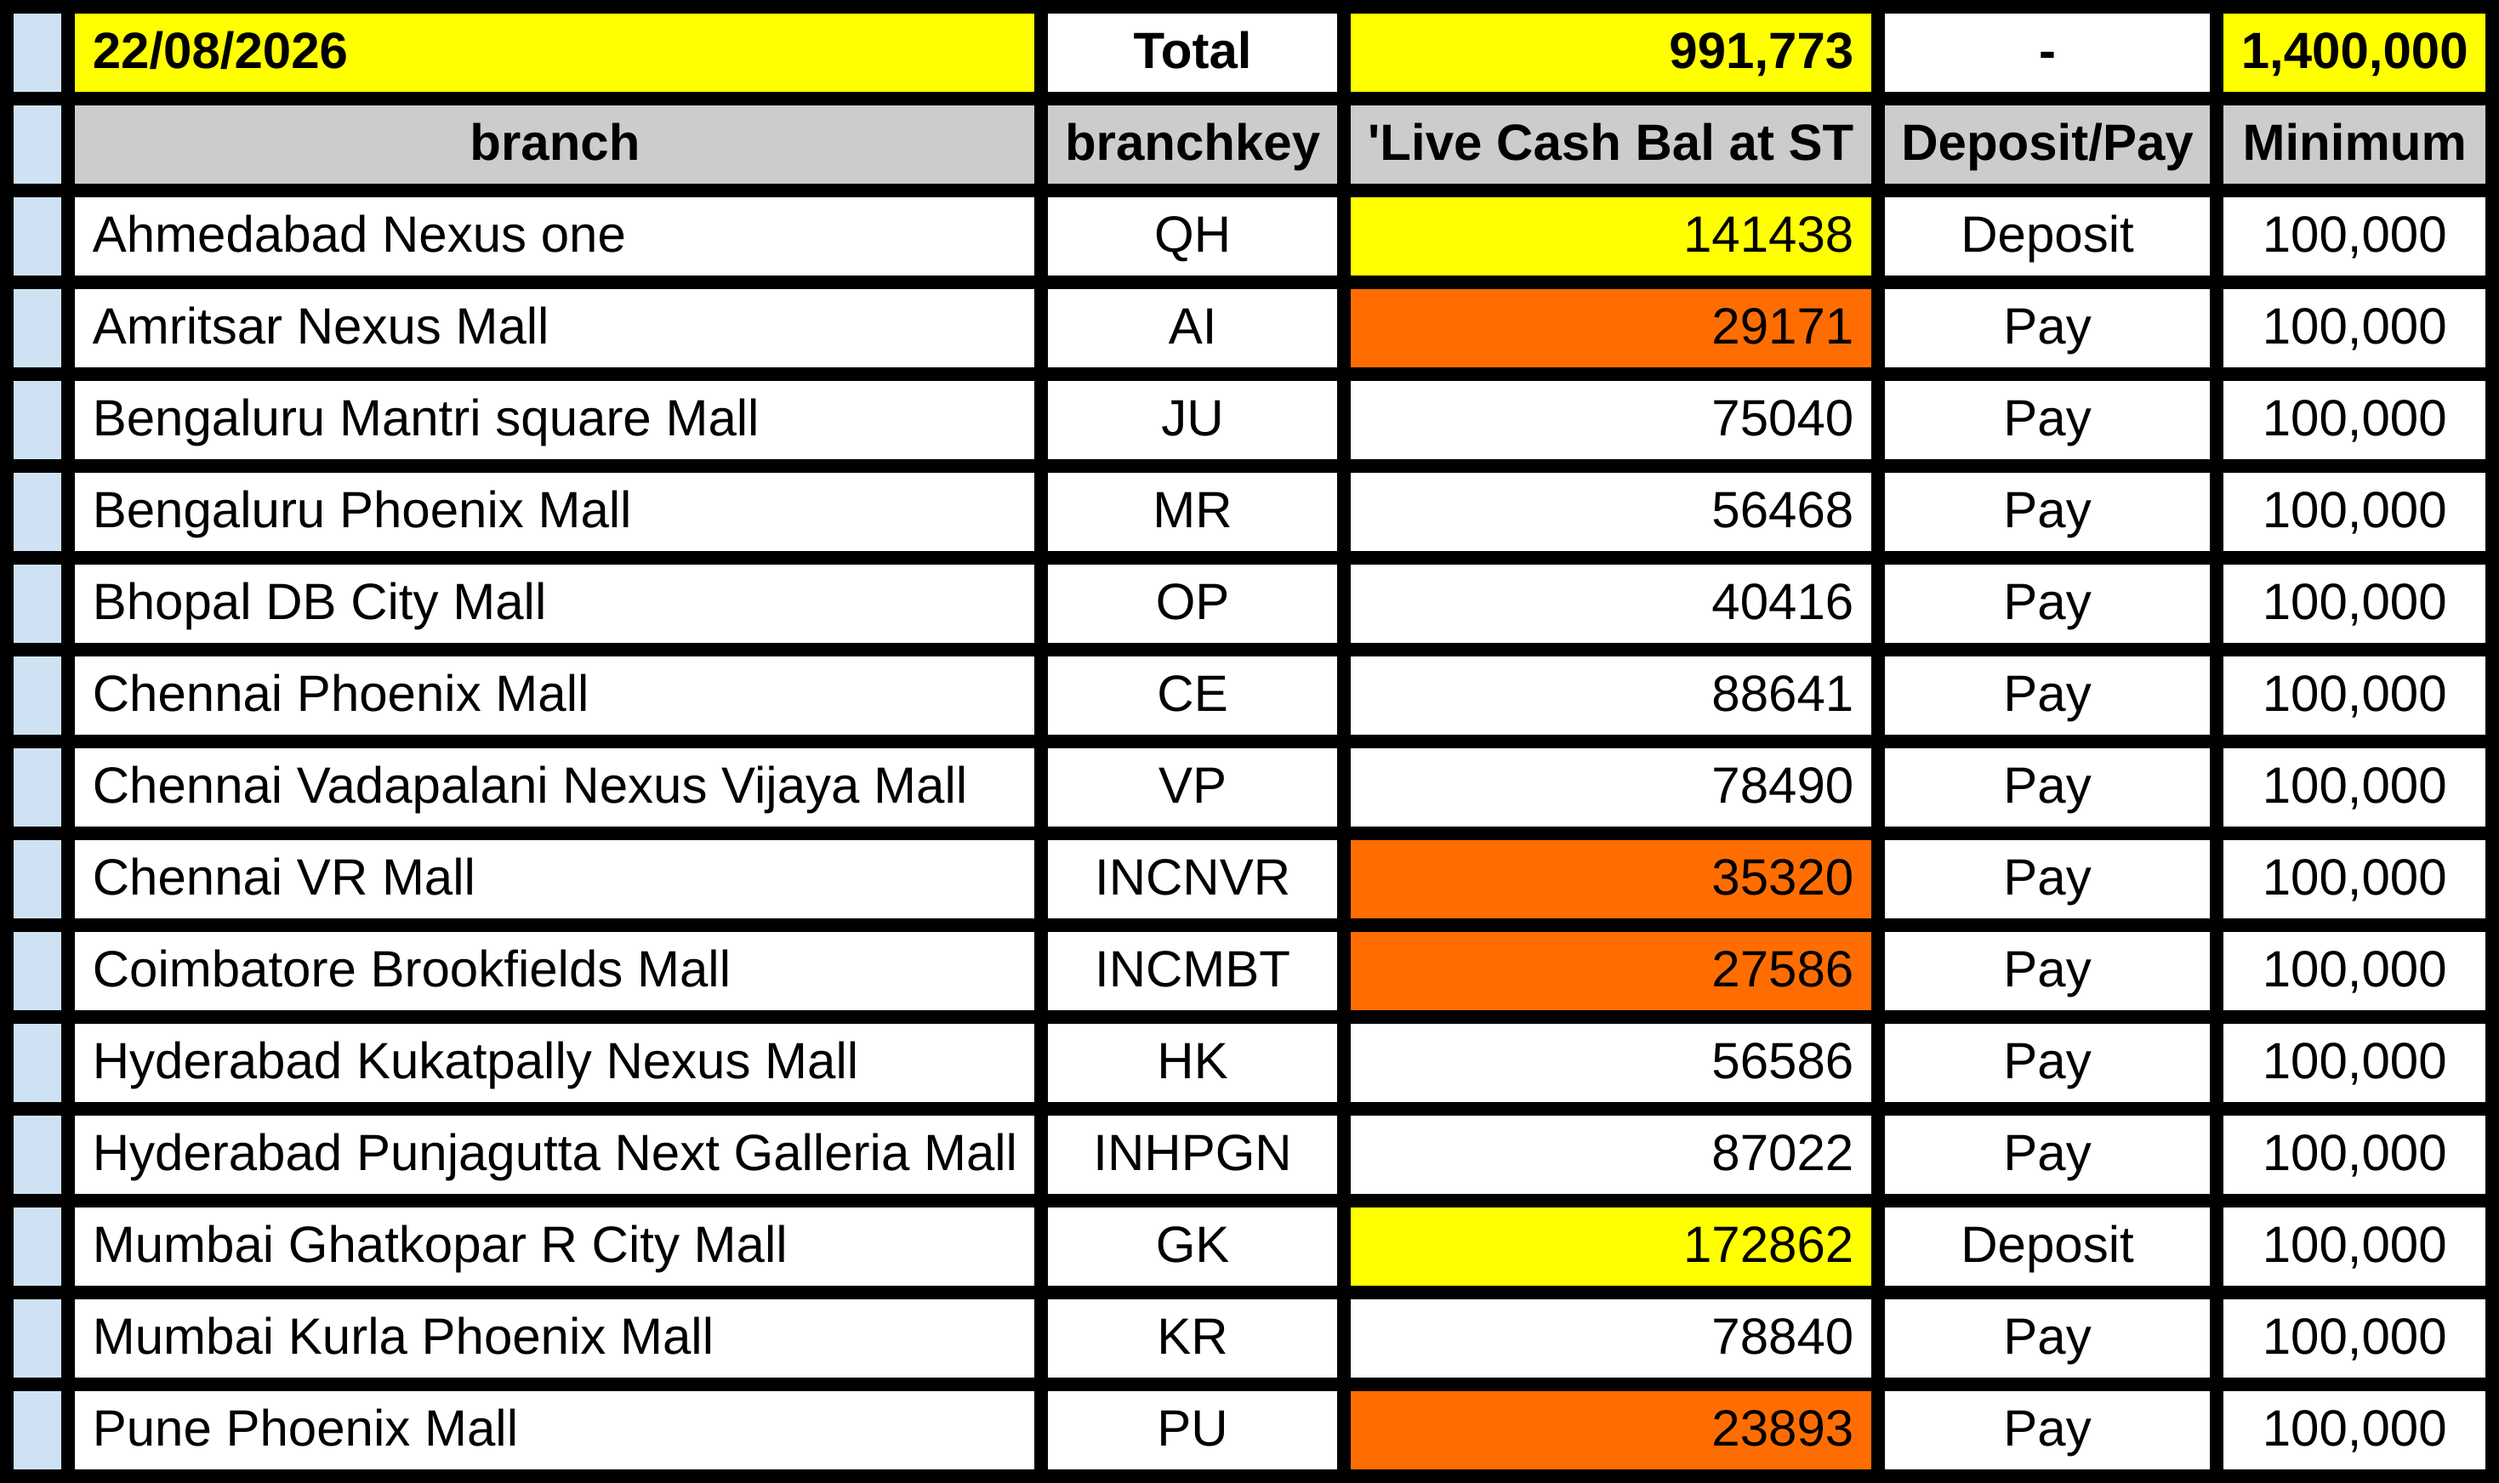
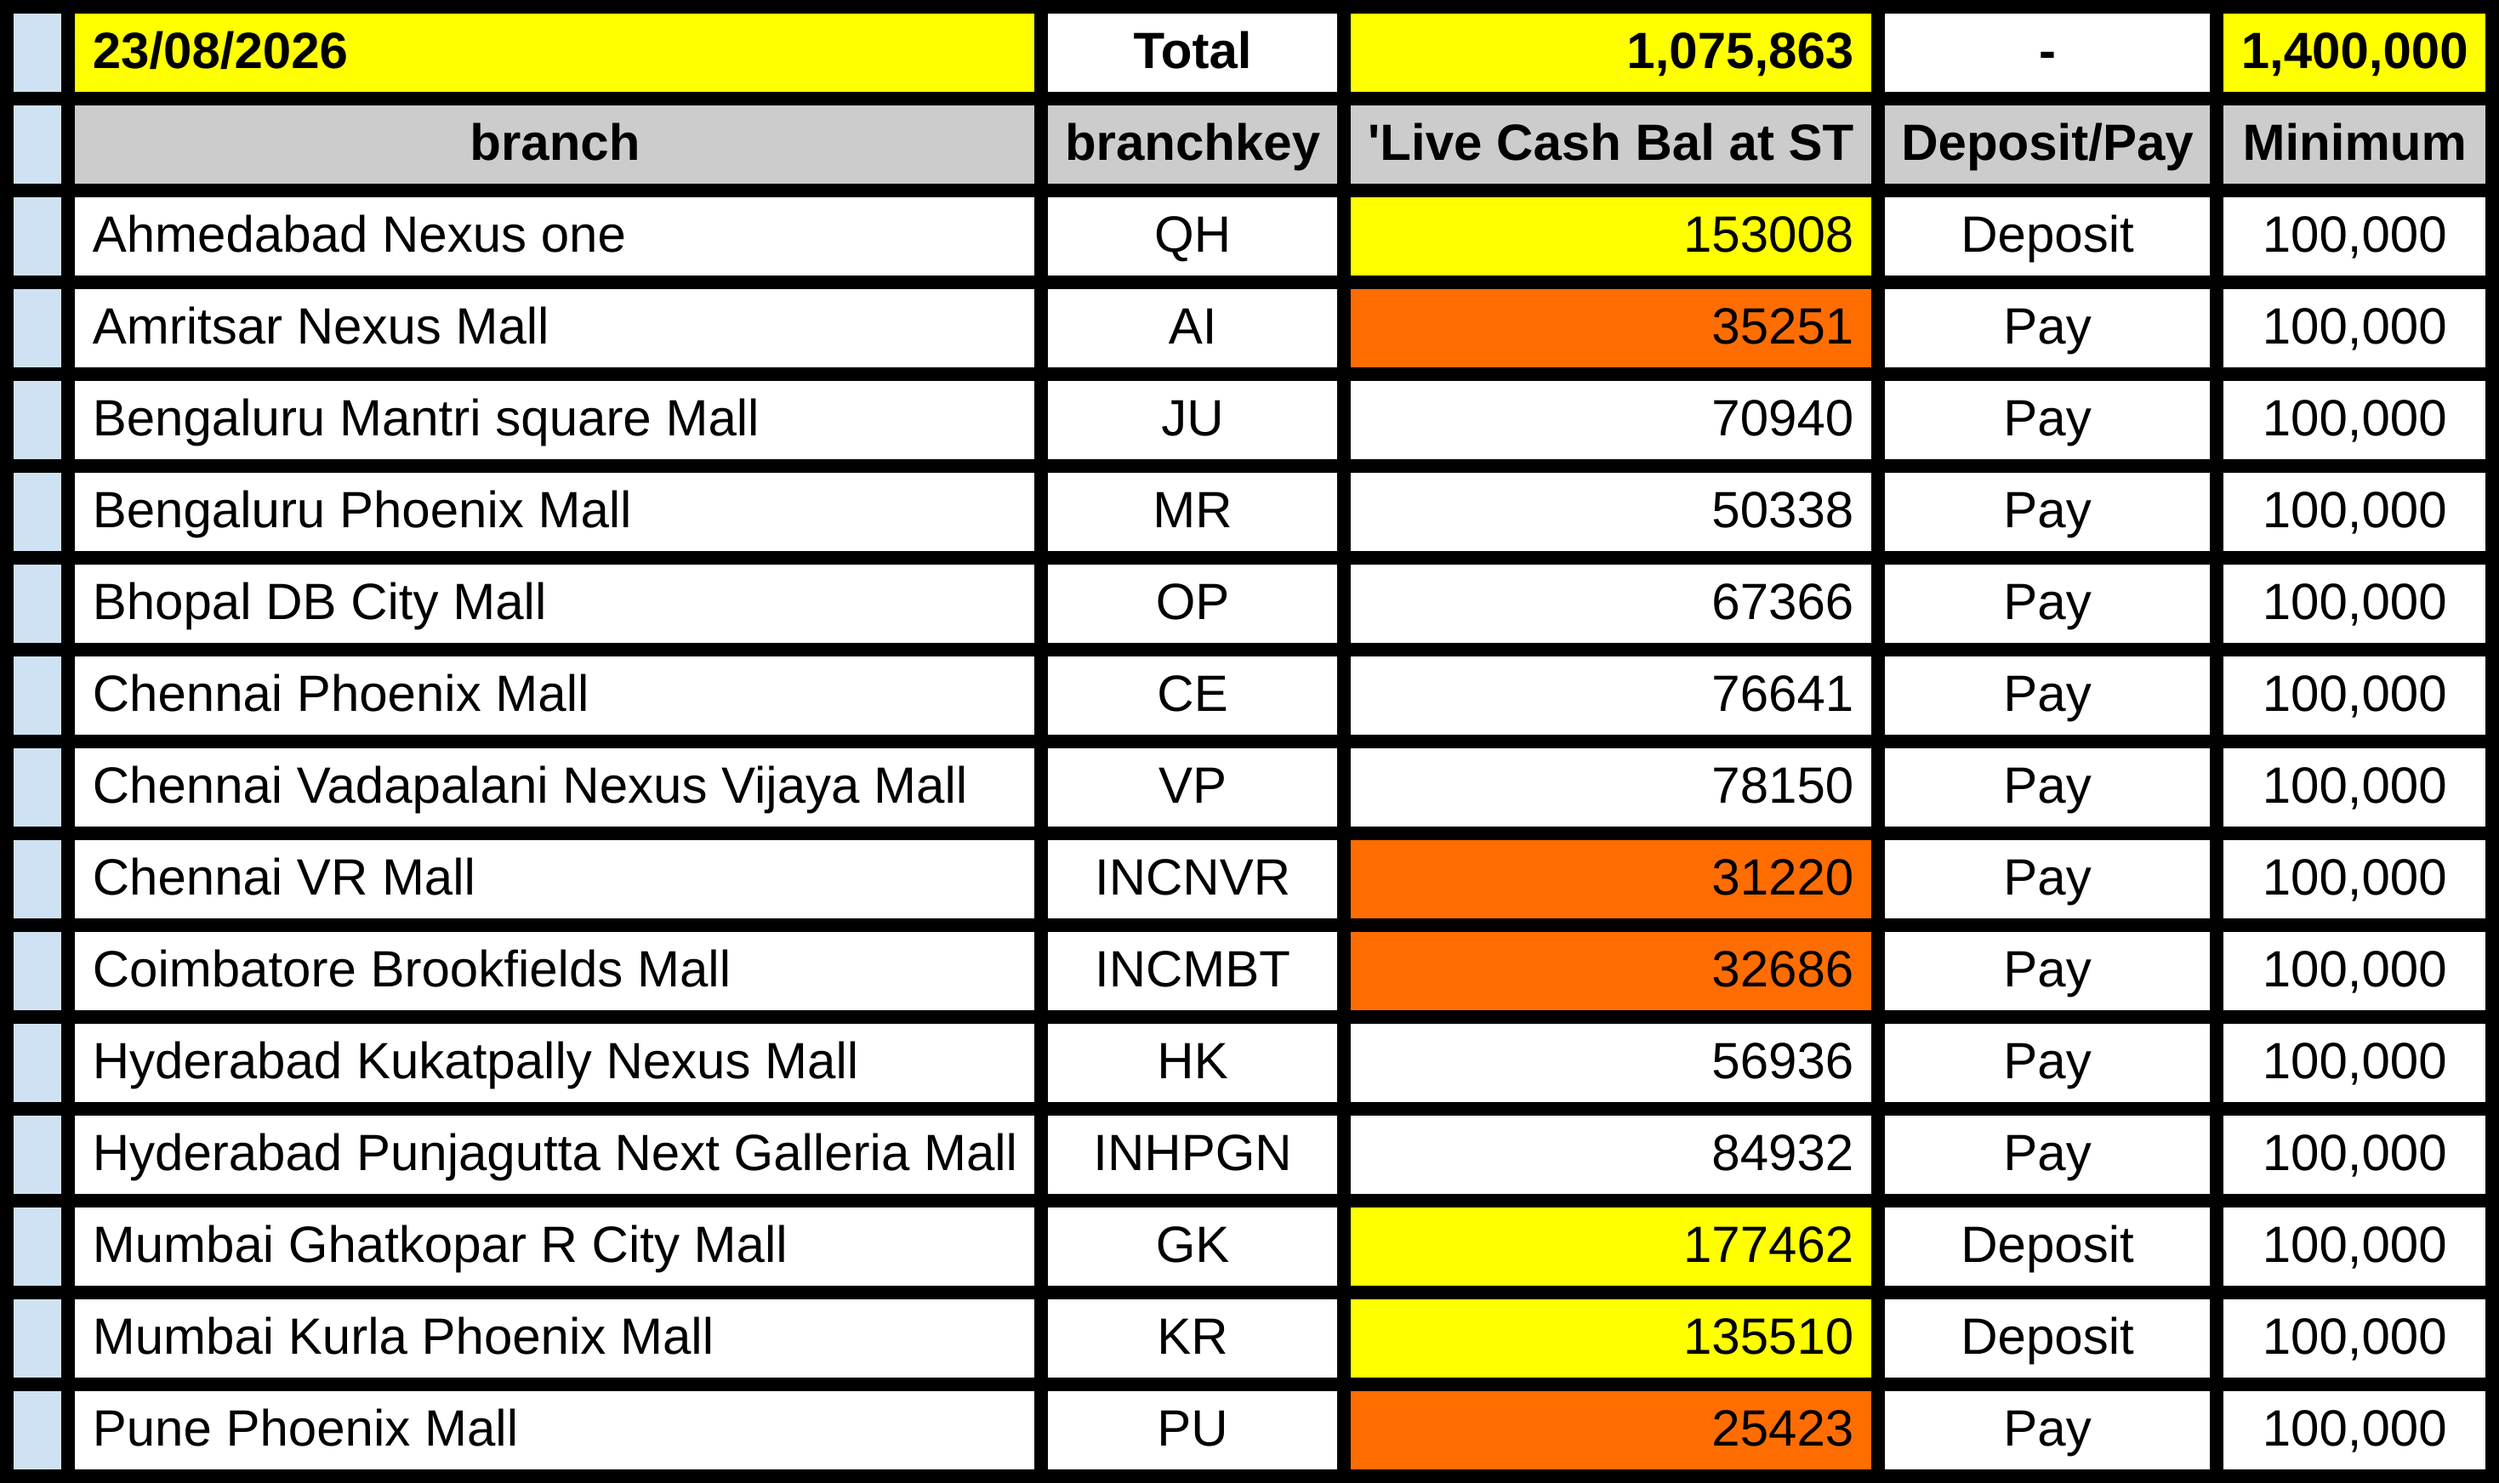
deploy: 1eb6ce62876c9d41067b4594acfaffc291ee4c8b

diff --git a/table.html b/table.html
@@ -35,7 +35,7 @@
           font-family: Arial, sans-serif;
           font-size: 30px;
           white-space: nowrap;
-        ">22/08/2026</td>
+        ">23/08/2026</td>
       
         <td style="
           background-color: #ffffff;
@@ -63,7 +63,7 @@
           font-family: Arial, sans-serif;
           font-size: 30px;
           white-space: nowrap;
-        ">991,773</td>
+        ">1,075,863</td>
       
         <td style="
           background-color: #ffffff;
@@ -231,7 +231,7 @@
           font-family: Arial, sans-serif;
           font-size: 30px;
           white-space: nowrap;
-        ">141438</td>
+        ">153008</td>
       
         <td style="
           background-color: #ffffff;
@@ -315,7 +315,7 @@
           font-family: Arial, sans-serif;
           font-size: 30px;
           white-space: nowrap;
-        ">29171</td>
+        ">35251</td>
       
         <td style="
           background-color: #ffffff;
@@ -399,7 +399,7 @@
           font-family: Arial, sans-serif;
           font-size: 30px;
           white-space: nowrap;
-        ">75040</td>
+        ">70940</td>
       
         <td style="
           background-color: #ffffff;
@@ -483,7 +483,7 @@
           font-family: Arial, sans-serif;
           font-size: 30px;
           white-space: nowrap;
-        ">56468</td>
+        ">50338</td>
       
         <td style="
           background-color: #ffffff;
@@ -567,7 +567,7 @@
           font-family: Arial, sans-serif;
           font-size: 30px;
           white-space: nowrap;
-        ">40416</td>
+        ">67366</td>
       
         <td style="
           background-color: #ffffff;
@@ -651,7 +651,7 @@
           font-family: Arial, sans-serif;
           font-size: 30px;
           white-space: nowrap;
-        ">88641</td>
+        ">76641</td>
       
         <td style="
           background-color: #ffffff;
@@ -735,7 +735,7 @@
           font-family: Arial, sans-serif;
           font-size: 30px;
           white-space: nowrap;
-        ">78490</td>
+        ">78150</td>
       
         <td style="
           background-color: #ffffff;
@@ -819,7 +819,7 @@
           font-family: Arial, sans-serif;
           font-size: 30px;
           white-space: nowrap;
-        ">35320</td>
+        ">31220</td>
       
         <td style="
           background-color: #ffffff;
@@ -903,7 +903,7 @@
           font-family: Arial, sans-serif;
           font-size: 30px;
           white-space: nowrap;
-        ">27586</td>
+        ">32686</td>
       
         <td style="
           background-color: #ffffff;
@@ -987,7 +987,7 @@
           font-family: Arial, sans-serif;
           font-size: 30px;
           white-space: nowrap;
-        ">56586</td>
+        ">56936</td>
       
         <td style="
           background-color: #ffffff;
@@ -1071,7 +1071,7 @@
           font-family: Arial, sans-serif;
           font-size: 30px;
           white-space: nowrap;
-        ">87022</td>
+        ">84932</td>
       
         <td style="
           background-color: #ffffff;
@@ -1155,7 +1155,7 @@
           font-family: Arial, sans-serif;
           font-size: 30px;
           white-space: nowrap;
-        ">172862</td>
+        ">177462</td>
       
         <td style="
           background-color: #ffffff;
@@ -1228,7 +1228,7 @@
         ">KR</td>
       
         <td style="
-          background-color: #ffffff;
+          background-color: #ffff00;
           color: #000000;
           font-weight: normal;
           font-style: normal;
@@ -1239,7 +1239,7 @@
           font-family: Arial, sans-serif;
           font-size: 30px;
           white-space: nowrap;
-        ">78840</td>
+        ">135510</td>
       
         <td style="
           background-color: #ffffff;
@@ -1253,7 +1253,7 @@
           font-family: Arial, sans-serif;
           font-size: 30px;
           white-space: nowrap;
-        ">Pay</td>
+        ">Deposit</td>
       
         <td style="
           background-color: #ffffff;
@@ -1323,7 +1323,7 @@
           font-family: Arial, sans-serif;
           font-size: 30px;
           white-space: nowrap;
-        ">23893</td>
+        ">25423</td>
       
         <td style="
           background-color: #ffffff;
